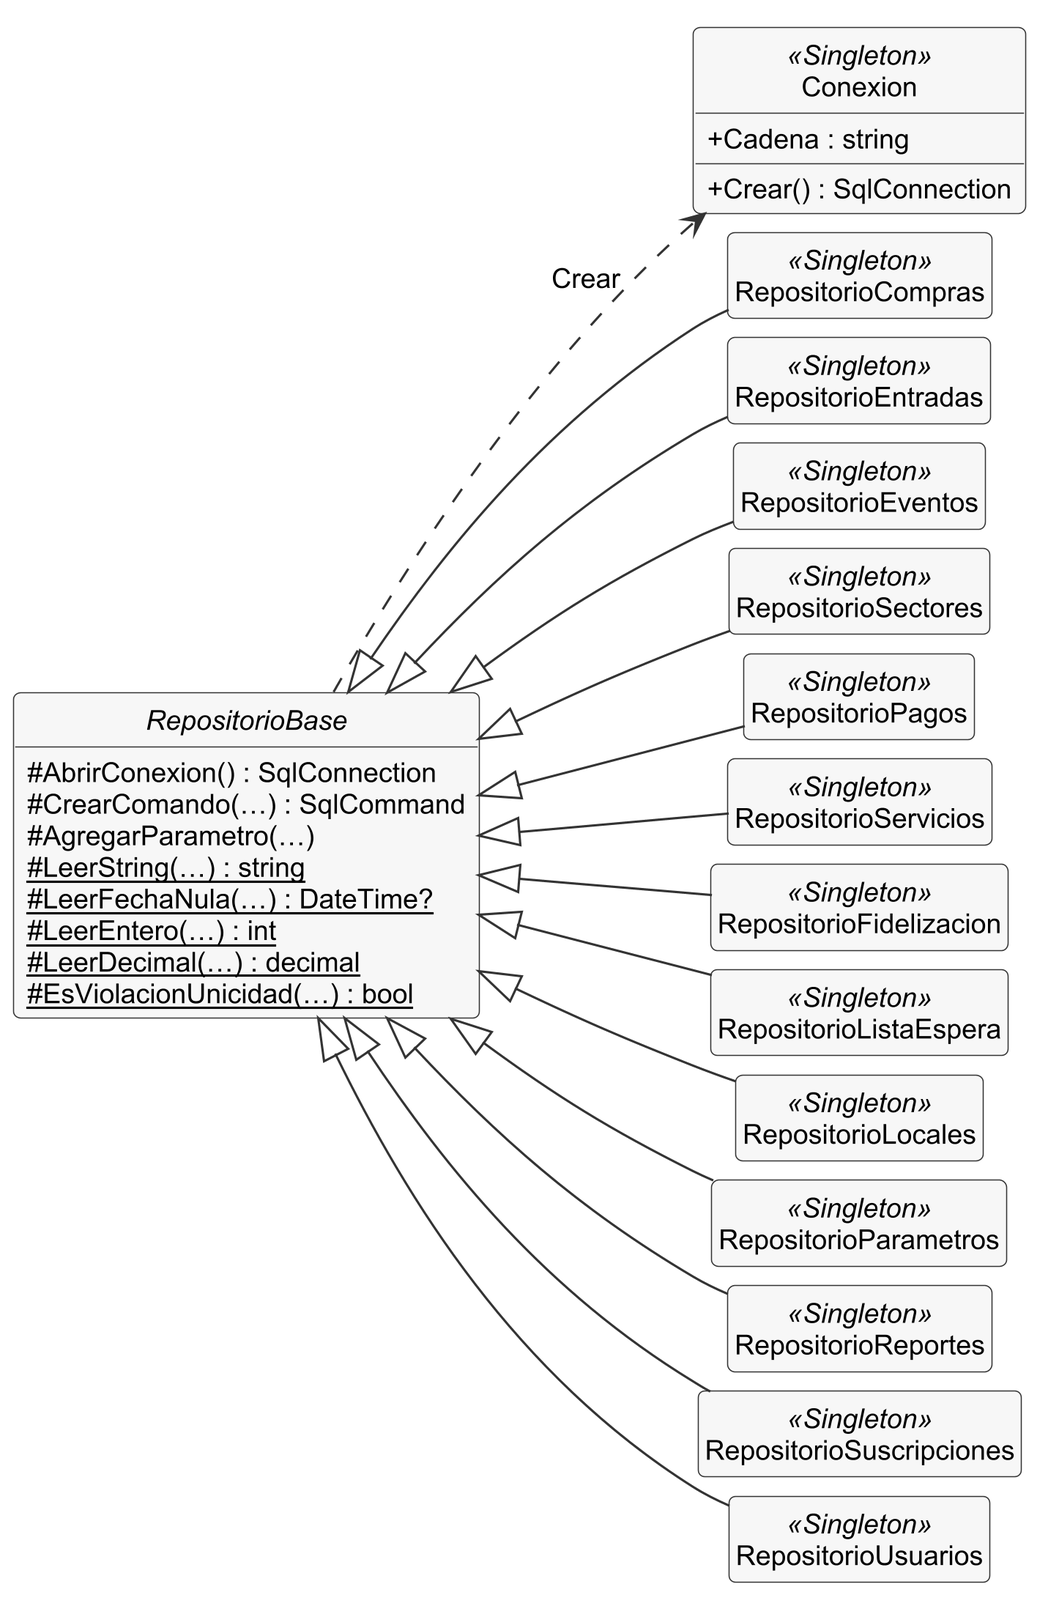
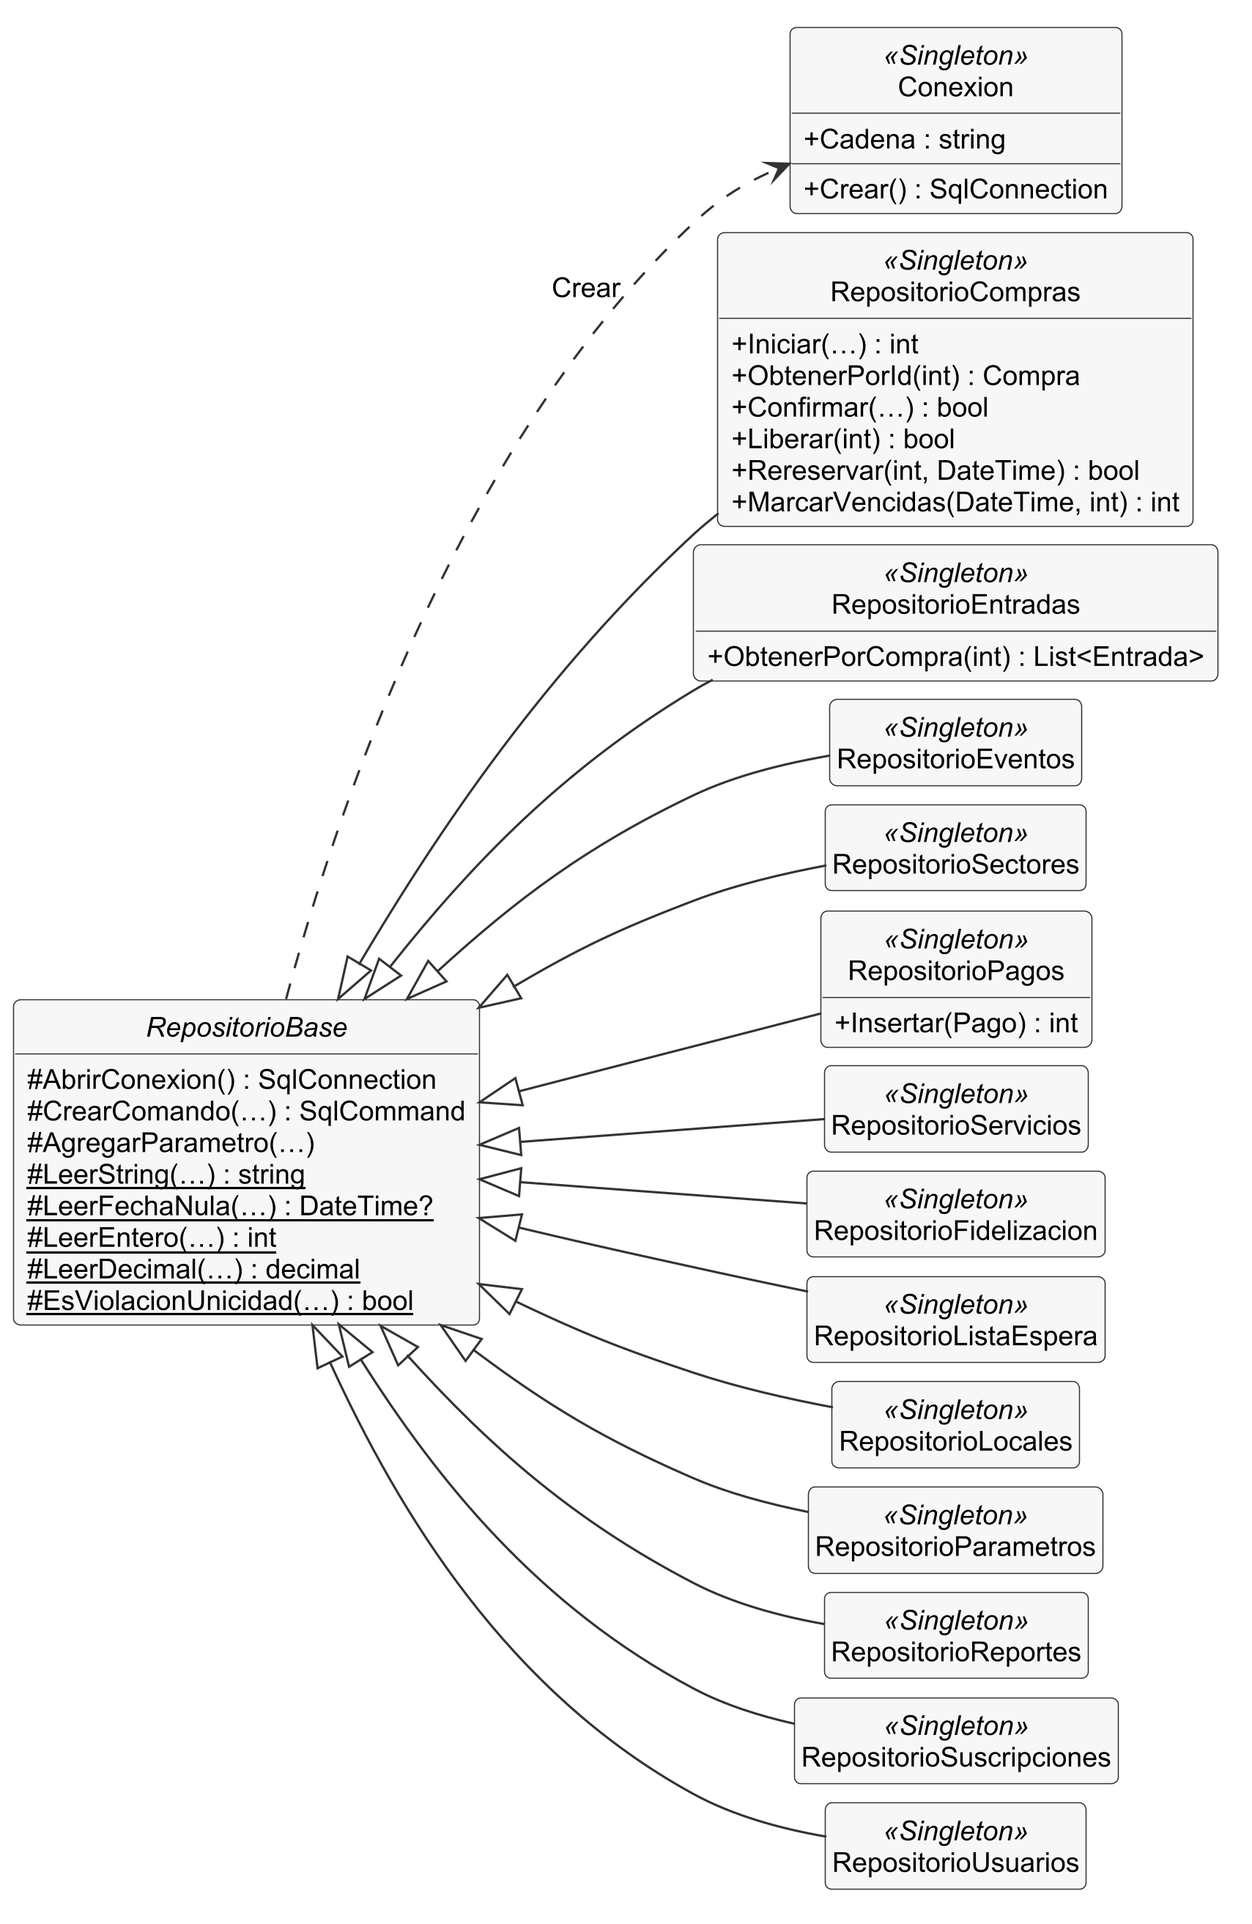
docs: matriz de coherencia corrida (8 de 10), metodos de secuencia en clases y guion de interfaz
- La matriz aparecio fuera del repositorio (adjunto de WhatsApp del 11/11); texto original y
  resultado en docs/MATRIZ-COHERENCIA.md. La 10 espera la devolucion del Parcial 1.
- Vistas 4 y 7 de clases con los metodos que llaman las secuencias; diagramas regenerados.
- Texto de clases con las equivalencias de nombres del dominio; dominio actualizado explica las
  tres multiplicidades de la entrada que la base no hace estrictas (decision M-1 para JC).
- Lista: trazabilidad del requerimiento core hasta el codigo; capturas del guion (pp. 47 a 49)
  esperando figura nueva.

diff --git a/docs/MATRIZ-COHERENCIA.md b/docs/MATRIZ-COHERENCIA.md
@@ -1,0 +1,155 @@
+# Matriz de coherencia: las diez comprobaciones, corridas sobre el documento
+
+Claude Code, 16/11/2026, a pedido de JC. Es el tercer instrumento: los otros dos (la guía oficial
+y los 16 errores frecuentes) están en `docs/CHEQUEO-INSTRUMENTOS-DOCENTE.md`.
+
+Se corrió sobre el documento **tal como queda después de pegar `docs/LISTA-PARA-MAXIMO.md`**: los
+diagramas de `docs/diagramas/fuentes/`, el esquema `BaseDatos/01-esquema.sql` y el código del
+commit `ea9212a`. Todo por lectura, con scripts que solo leen; no se corrió la batería ni se tocó
+ninguna base.
+
+## De dónde salió la matriz
+
+No estaba en el repositorio. Apareció en el disco, fuera de él, buscando por contenido:
+
+- **Archivo:** `Prompt_Documentacion_Trabajo_de_Diploma.md` (y su copia en PDF), en los adjuntos de
+  WhatsApp Desktop, carpeta de transferencias de la semana 46 (llegó el 11/11/2026).
+- **Qué es:** un prompt para armar la documentación del Trabajo de Diploma, con la estructura de
+  la guía oficial (profesor Audoglio). Su sección 6 es la matriz. **No dice quién lo escribió.**
+  JC confirma si es la que usa el profesor.
+- No se encontró otra: se revisaron Descargas, Documentos, OneDrive, el escritorio, las carpetas
+  de `D:\` y los adjuntos de WhatsApp (PDF, Word, PowerPoint, Excel, texto y Markdown).
+
+**Texto original de la sección 6**, sin cambios:
+
+> ## 6. Matriz de coherencia (completala al cerrar cada iteración)
+>
+> | Verificación | Cómo se comprueba |
+> |---|---|
+> | Cada RF core tiene CU, robustez, secuencia y código | Tabla de trazabilidad RF → CU → diagramas → archivos |
+> | Los estados de la entidad son idénticos en el diagrama de transición, en la clase, en el enum o CHECK de la base y en el código | Comparar las 4 listas |
+> | Cada clase del dominio actualizado existe en el diagrama de clases (o se explica por qué no) | Lista lado a lado |
+> | Cada relación tiene la misma multiplicidad en dominio, clases y DER | Tabla de relaciones |
+> | Ninguna clase tiene un atributo de clave foránea y a la vez una línea hacia la misma clase | Revisar clase por clase |
+> | Toda relación 1:1 del diagrama tiene UNIQUE en la base | Revisar el script |
+> | Toda composición del diagrama tiene borrado en cascada o baja lógica coherente en la base | Revisar las FK |
+> | Los métodos de la secuencia existen en las clases del diagrama de clases y en el código | Buscar cada nombre |
+> | Los nombres (clases, atributos, tablas) son consistentes en todo el documento | Glosario |
+> | Lo que marcó la devolución del Parcial 1 está corregido y anotado en la hoja de seguimiento | Lista de observaciones vs. correcciones |
+
+## Resultado
+
+| # | Comprobación | Antes | Ahora | Qué se hizo |
+|---|---|---|---|---|
+| 1 | RF core → CU, robustez, secuencia, código | **No** | Sí | La matriz principal llegaba hasta los casos de prueba. Tabla nueva en la lista, p. 107 |
+| 2 | Estados idénticos en las 4 listas | Sí | Sí | — |
+| 3 | Clases del dominio en el diagrama de clases | **Con huecos** | Sí | Párrafo nuevo en el texto del diagrama de clases |
+| 4 | Misma multiplicidad en dominio, clases y DER | **No, en 3 relaciones** | Explicado | Párrafo nuevo en el dominio actualizado. **Decisión de JC** abajo |
+| 5 | Atributo de FK y línea a la vez | Sí | Sí | — |
+| 6 | Toda 1:1 con UNIQUE en la base | **No, en 1 relación** | Explicado | La misma decisión de JC |
+| 7 | Composiciones con cascada o baja lógica | Sí (no hay composiciones) | Sí | — |
+| 8 | Métodos de la secuencia en clases y código | **No, 8 llamadas** | Sí | Métodos agregados a las vistas 4 y 7; diagramas regenerados |
+| 9 | Nombres consistentes (glosario) | **Con huecos** | Sí, salvo glosario | El mismo párrafo de la 3. El documento no tiene glosario |
+| 10 | Devolución del Parcial 1 en la hoja de seguimiento | **Bloqueada** | Bloqueada | No está la devolución. **La tiene que pasar JC** |
+
+### 1. Requerimiento core hasta el código
+
+El core es RF-05, armado de paquetes (p. 46). Tiene CU-01, la robustez «Comprar paquete», la
+secuencia en tres vistas, dos actividades, la transición de estados de la entrada y su código.
+Lo que faltaba era la tabla que lo muestra: la matriz de la p. 107 va de RF a CU y a casos de
+prueba, sin diagramas ni archivos. **Se agregó** la tabla «Trazabilidad del requerimiento core»
+en la lista, después de la matriz principal. Los doce archivos que nombra existen.
+
+### 2. Estados de la entrada
+
+Las cuatro listas dicen lo mismo: Pendiente, Confirmada, Reembolsada y Vencida.
+
+| Lugar | Dónde |
+|---|---|
+| Diagrama de transición | `estados-entrada.puml` (Confirmada tiene dos subestados, sin ingreso e ingresada, que son `FechaIngreso` y no un valor de `Estado`) |
+| Clase | enum `EstadoEntrada` en la vista 3 de clases |
+| Base | `CK_Entradas_Estado` (`01-esquema.sql` y `05-check-estado-entradas.sql`) |
+| Código | `Entidade/EstadoEntrada.cs` |
+
+### 3 y 9. Nombres del dominio frente a las clases
+
+| Dominio actualizado | Diagrama de clases | ¿Explicado antes? |
+|---|---|---|
+| Administrador | `Propietario` | Solo en el texto de casos de uso |
+| Inscripción | `ListaEspera` | No |
+| Servicio contratado | `CompraServicio` | Sí, en el dominio actualizado |
+| Paquete | `Paquete` (no se guarda en la base) | En parte |
+| Suscripción | `Suscripcion` | Es la tilde: no hace falta |
+
+**Se agregó** al texto del diagrama de clases (`docs/PARA-MAXIMO-DIAGRAMAS.md`, sección 2, y de
+ahí a la lista) un párrafo con las tres equivalencias y la del Paquete. Con eso pasan la 3 y la 9.
+
+**La 9 pide un glosario, y el documento no tiene.** Ese párrafo cumple la función para los nombres
+que difieren, pero no es un glosario. Si JC quiere uno, es una sección nueva: no la agregué.
+
+### 4 y 6. Multiplicidades de la entrada
+
+Coinciden en todas las relaciones salvo tres, las tres de la entrada:
+
+| Relación | Dominio | Clases | DER | Por qué |
+|---|---|---|---|---|
+| Entrada — Compra | 1 | 0..1 | 0..1 | `Entradas.ID_Compra` admite NULL: se agregó con `ALTER TABLE … NULL` a una tabla de entradas anterior a las compras |
+| Entrada — Sector | 1 | 0..1 | 0..1 | Lo mismo con `ID_Sector` |
+| Entrada — Seguro | 0..1 | 0..* | 0..* | `Seguros.ID_Entrada` no tiene UNIQUE. El código emite un seguro por entrada, una sola vez, y CP-122 prueba que no se agrega después |
+
+El dominio dice la regla del negocio; la base es menos estricta. **Se agregó** al texto del
+dominio actualizado un párrafo que lo explica. Con eso el documento no se contradice, pero la
+comprobación 4 pide literalmente la misma multiplicidad, y la 6 pide UNIQUE para la relación
+0..1 del dominio.
+
+**Decisión de JC (M-1):**
+- **(a) Dejarlo explicado** (lo que está hoy en la lista). No cambia código ni base.
+- **(b) Agregar `UNIQUE (ID_Entrada)` en `Seguros`.** Lo hace Codex en un script `07` (Máximo
+  tendría que correr un script más) y en `01-esquema.sql`, y el DER y las clases pasan a 0..1.
+  Cierra la 6 y una de las tres de la 4. Las otras dos (compra y sector) quedan explicadas
+  igual: volver obligatorias esas columnas exige revisar los datos que ya existen.
+
+**Recomendación: (a).** El código ya garantiza un solo seguro por entrada, y a días de congelar
+no conviene sumarle a Máximo otro script de base. La (b) tiene sentido si el profesor corrige la
+6 al pie de la letra.
+
+### 5. Clave foránea como atributo y como línea
+
+Revisado con un script sobre las tres vistas de entidades y los dos dominios: ninguna clase lista
+como atributo el identificador ni la colección que ya representa una asociación. El
+entidad-relación muestra las columnas FK porque es su notación.
+
+### 7. Composiciones
+
+No hay composiciones en ningún diagrama (`docs/PARA-MAXIMO-DIAGRAMAS.md`, regla 3: el código no
+tiene ciclo de vida dependiente entre entidades). La comprobación no tiene nada que revisar.
+
+### 8. Métodos de la secuencia
+
+Las tres vistas de la secuencia «Comprar paquete» llaman a 19 operaciones distintas. Todas existen en el
+código, pero 8 no aparecían en ningún diagrama de clases:
+
+| Llamada | Faltaba en | Arreglo |
+|---|---|---|
+| `GestorPaquetes.VerificarPreventa` | vista 4 (es `internal`) | `~ VerificarPreventa(int, int)` |
+| `RepositorioCompras.Iniciar`, `ObtenerPorId`, `Confirmar`, `Liberar`, `Rereservar`, `MarcarVencidas` | vista 7 (los repositorios estaban sin métodos) | Agregados |
+| `RepositorioEntradas.ObtenerPorCompra` | vista 7 | Agregado |
+| `RepositorioPagos.Insertar` | vista 7 | Agregado |
+
+Diagramas regenerados: `clases-4-negocio-compra` (16,0 × 18,3 cm, 8,5 pt) y `clases-7-datos`
+(15,0 × 23,0 cm, 9,3 pt), los dos dentro del ancho de página. Al volver a correr la comprobación,
+no falta ninguna.
+
+### 10. Devolución del Parcial 1
+
+La «hoja de seguimiento» es el historial de revisión de la p. 6 (punto 13 de la guía). Lo que no
+está es **la devolución del Parcial 1**: no aparece en el repositorio ni en el disco. Sin ella no
+se puede comparar observación por observación. **JC la pasa (archivo, foto o texto) y se corre.**
+
+## Encontrado de paso, fuera de la matriz
+
+**Las tres capturas del guion de interfaz (pp. 47 a 49) son de antes del rediseño.** La de la
+p. 47 todavía dice «Show Password». Quedaron en la lista como «esperando figura nueva», con la
+pantalla que va en cada una, y se corrigió el texto del Menú Inicial (Enter y los dos enlaces).
+Para Codex: sumarlas a las capturas del congelamiento (`frmInicio`, `frmCrearUsuario`,
+`frmMenuCliente`).

diff --git a/docs/LISTA-PARA-MAXIMO.md b/docs/LISTA-PARA-MAXIMO.md
@@ -842,6 +842,21 @@ entradas del pedido debajo) y para Reportes (filtros arriba en dos filas, tabla 
 lectura y acciones al pie). **Cuando Codex las publique, JC confirma que las pantallas quedaron
 así**; hoy son la propuesta, no el código.
 
+## Páginas 47 a 49 — Guion de interfaz: las tres capturas
+
+**⏸ ESPERANDO FIGURA NUEVA: no toques las tres imágenes todavía.** Muestran la interfaz de antes
+del rediseño (la de la p. 47 dice «Show Password»). Van a reemplazarse por capturas de la interfaz
+congelada: p. 47, inicio de sesión (`frmInicio`); p. 48, crear cuenta (`frmCrearUsuario`); p. 49,
+menú del cliente (`frmMenuCliente`). Cuando estén, esta entrada dice el archivo de cada una.
+
+**P. 47, mismo lugar, ya:** en la lista del Menú Inicial, **dice** «Botones para iniciar sesión,
+cambiar la contraseña y crear una cuenta nueva.» **Poner:** «El botón para iniciar sesión, que
+también responde a la tecla Enter, y los enlaces para cambiar la contraseña y crear una cuenta
+nueva.»
+
+*Razón:* pasada de coherencia del 16/11 sobre el rediseño. `frmInicio` tiene `AcceptButton` y los
+dos accesos como enlaces («Cambiar contraseña» y «Crear Cuenta»).
+
 ## Página 48
 
 **E-01 · p. 48 · R (T-5).**
@@ -1666,11 +1681,18 @@ Texto, debajo del título «Diagrama de clases»:
 > la compra y del pago son enumeraciones con los mismos valores que las restricciones `CHECK` de la
 > base de datos.
 >
-> En la capa de negocio, las vistas 4 y 5 muestran las operaciones públicas de cada gestor, y la
-> vista 6, la verificación de identidad que agregó la revisión de seguridad: antes de operar, cada
+> Tres conceptos del modelo de dominio llevan otro nombre en el código, y así aparecen en las
+> vistas: el Administrador es la clase `Propietario`, que es el nombre de su perfil en la base de
+> datos (RN-05); la Inscripción en la lista de espera es la clase `ListaEspera`, y el Servicio
+> contratado es la clase `CompraServicio`. El Paquete existe como clase pero no se guarda en la
+> base: es el armado en curso, y al confirmarlo se convierte en una Compra.
+>
+> En la capa de negocio, las vistas 4 y 5 muestran las operaciones públicas de cada gestor, más
+> las internas que aparecen en el diagrama de secuencia, y la vista 6, la verificación de identidad que agregó la revisión de seguridad: antes de operar, cada
 > gestor consulta a `GestorSesion` si quien llama es el titular de los datos (RN-41) o el
 > Administrador (RN-34, RN-42). La vista 7 muestra la capa de datos: trece repositorios que
-> heredan de `RepositorioBase`, únicos responsables del acceso a SQL Server.
+> heredan de `RepositorioBase`, únicos responsables del acceso a SQL Server; de cada uno se
+> muestran los métodos que aparecen en los diagramas de secuencia.
 
 **Sección nueva «Patrones de diseño»**, a continuación de las vistas de clases. Tres figuras:
 
@@ -1772,6 +1794,14 @@ Texto:
 > entrada y del pago son enumeraciones con los mismos valores que la base de datos. La relación de
 > muchos a muchos entre compra y servicio complementario lleva una clase de asociación, Servicio
 > contratado, con la cantidad y el precio unitario congelado al comprar (RN-16).
+>
+> El dominio expresa la regla del negocio, y en tres asociaciones de la entrada la implementación
+> es menos estricta. Toda entrada nace de una compra y de un sector, pero en la base de datos las
+> columnas de la compra y del sector admiten nulos, porque se agregaron a una tabla de entradas
+> anterior a ellas; por eso el diagrama de clases y el entidad-relación las muestran con
+> multiplicidad 0..1. Y una entrada tiene a lo sumo un seguro: el sistema lo emite una sola vez, al
+> confirmar la compra, y no permite agregarlo después (RN-28), pero la base no lo impide con una
+> restricción de unicidad, así que el entidad-relación muestra 0..*.
 
 **Diagrama de actividad:** el título «Diagrama de Actividad (flujo del Cliente)» pasa a
 «Diagrama de actividad (proceso de venta)». Reemplazar la figura (que sigue en la p. 89) por
@@ -2111,6 +2141,19 @@ El párrafo «La indicación "ind." en RF-10…» queda igual. **Agregar** debaj
 > en RF-12, que reúne las operaciones del Administrador. CP-94 figura en varias filas porque
 > verifica las dos reglas en las operaciones de cada una; CP-123, en RF-07 y RF-12, porque
 > verifica RN-42 en el control de ingreso.
+
+**Agregar a continuación** el subtítulo «Trazabilidad del requerimiento core» y:
+
+> La matriz principal llega hasta los casos de prueba. Para el requerimiento core, la
+> trazabilidad sigue hasta los diagramas y el código:
+
+| Requerimiento | Caso de uso | Diagramas | Código |
+|---|---|---|---|
+| RF-05, Armado de paquetes personalizados | CU-01 Comprar paquete | Robustez «Comprar paquete»; secuencia «Comprar paquete» (reserva, pago y emisión); actividad del armado y del pago; transición de estados de la entrada; clases, vistas 2, 3, 4 y 7 | `Visual/Cliente/FrmCompraCliente.cs`, `frmPago.cs` y `frmConfirmacion.cs`; `Repo/GestorPaquetes.cs`, `GestorCompras.cs` y `GestorFidelizacion.cs`; `Datos/RepositorioCompras.cs`, `RepositorioSectores.cs`, `RepositorioEntradas.cs` y `RepositorioPagos.cs`; `Entidade/Paquete.cs` y `Compra.cs` |
+
+*Razón:* matriz de coherencia, comprobación 1 («Cada RF core tiene CU, robustez, secuencia y
+código»; se comprueba con una tabla RF → CU → diagramas → archivos). La matriz principal no
+llegaba a diagramas ni a archivos. Los archivos existen en el commit `ea9212a`.
 
 **Tabla «Trazabilidad inversa de los objetivos específicos», fila OE-4. Reemplazar** la
 evidencia «Informe de pruebas de usabilidad: SUS 74,5 y 80 % de satisfacción» **por** «Informe de

diff --git a/docs/PARA-MAXIMO-DIAGRAMAS.md b/docs/PARA-MAXIMO-DIAGRAMAS.md
@@ -113,10 +113,10 @@ presenta en siete vistas, más tres de patrones (ficha 3).
 | 1. Dominio: cuentas y catálogo | `clases-1-dominio-catalogo` | **15,9 cm** (23,0 de alto, página entera) | 8,6 pt |
 | 2. Dominio: compra y pago | `clases-2-dominio-compra` | **16,0 cm** (15,9) | 9,8 pt |
 | 3. Dominio: entrada y seguro | `clases-3-dominio-entrada` | **16,0 cm** (13,2) | 11,8 pt |
-| 4. Negocio: gestores de la compra | `clases-4-negocio-compra` | **16,0 cm** (17,6) | 8,5 pt |
+| 4. Negocio: gestores de la compra | `clases-4-negocio-compra` | **16,0 cm** (18,3) | 8,5 pt |
 | 5. Negocio: administración y cuenta | `clases-5-negocio-administracion` | **16,0 cm** (19,6) | 9,2 pt |
 | 6. Negocio: verificación de identidad | `clases-6-autorizacion` | **16,0 cm** (11,9) | 9,9 pt |
-| 7. Datos: repositorios | `clases-7-datos` | **15,1 cm** (23,0, página entera) | 11,1 pt |
+| 7. Datos: repositorios | `clases-7-datos` | **15,0 cm** (23,0, página entera) | 9,3 pt |
 
 El fuente de cada una es `fuentes/<nombre>.puml` y la imagen, `<nombre>.png`.
 
@@ -141,11 +141,18 @@ conceptual» de la misma página no se toca en esta entrega.**
 > la compra y del pago son enumeraciones con los mismos valores que las restricciones `CHECK` de la
 > base de datos.
 >
-> En la capa de negocio, las vistas 4 y 5 muestran las operaciones públicas de cada gestor, y la
-> vista 6, la verificación de identidad que agregó la revisión de seguridad: antes de operar, cada
+> Tres conceptos del modelo de dominio llevan otro nombre en el código, y así aparecen en las
+> vistas: el Administrador es la clase `Propietario`, que es el nombre de su perfil en la base de
+> datos (RN-05); la Inscripción en la lista de espera es la clase `ListaEspera`, y el Servicio
+> contratado es la clase `CompraServicio`. El Paquete existe como clase pero no se guarda en la
+> base: es el armado en curso, y al confirmarlo se convierte en una Compra.
+>
+> En la capa de negocio, las vistas 4 y 5 muestran las operaciones públicas de cada gestor, más
+> las internas que aparecen en el diagrama de secuencia, y la vista 6, la verificación de identidad que agregó la revisión de seguridad: antes de operar, cada
 > gestor consulta a `GestorSesion` si quien llama es el titular de los datos (RN-41) o el
 > Administrador (RN-34, RN-42). La vista 7 muestra la capa de datos: trece repositorios que
-> heredan de `RepositorioBase`, únicos responsables del acceso a SQL Server.
+> heredan de `RepositorioBase`, únicos responsables del acceso a SQL Server; de cada uno se
+> muestran los métodos que aparecen en los diagramas de secuencia.
 
 **Justificación de relaciones, vistas 1 a 3 (entidades):**
 
@@ -515,6 +522,14 @@ una vista por página.
 > entrada y del pago son enumeraciones con los mismos valores que la base de datos. La relación de
 > muchos a muchos entre compra y servicio complementario lleva una clase de asociación, Servicio
 > contratado, con la cantidad y el precio unitario congelado al comprar (RN-16).
+>
+> El dominio expresa la regla del negocio, y en tres asociaciones de la entrada la implementación
+> es menos estricta. Toda entrada nace de una compra y de un sector, pero en la base de datos las
+> columnas de la compra y del sector admiten nulos, porque se agregaron a una tabla de entradas
+> anterior a ellas; por eso el diagrama de clases y el entidad-relación las muestran con
+> multiplicidad 0..1. Y una entrada tiene a lo sumo un seguro: el sistema lo emite una sola vez, al
+> confirmar la compra, y no permite agregarlo después (RN-28), pero la base no lo impide con una
+> restricción de unicidad, así que el entidad-relación muestra 0..*.
 
 **Justificación.** Las asociaciones son las mismas de la ficha 7, con la misma multiplicidad.
 Lo que se agrega:

diff --git a/docs/CHEQUEO-INSTRUMENTOS-DOCENTE.md b/docs/CHEQUEO-INSTRUMENTOS-DOCENTE.md
@@ -18,7 +18,7 @@ en la auditoría.
 |---|---|---|
 | **Estructura oficial** | La «Guía de resolución» de las consignas de la Entrega 1 a la 3 (`Documentacion/Entrega 1.pdf` a `Entrega 3.pdf`; las tres son iguales salvo el encabezado). Son 13 puntos, más tres formalidades: portada, resumen ejecutivo e índice | Corrida. **Da 16 ítems, no 15.** Si la estructura de 15 que tenés en mente es otro archivo, pasámelo |
 | **16 errores frecuentes** | Tu mensaje del 12/11 (la auditoría de diagramas) | Corrida |
-| **Matriz de coherencia de 10 comprobaciones** | **No está** en el repositorio, en los PDF de `Documentacion/` ni en ningún mensaje de esta sesión | **Decisión pendiente:** pasámela (archivo o texto) y la corro. Son unas 5 vueltas de herramienta. **No la reconstruí,** para no inventar los criterios del docente |
+| **Matriz de coherencia de 10 comprobaciones** | Sección 6 de `Prompt_Documentacion_Trabajo_de_Diploma.md`, adjunto de WhatsApp del 11/11 (fuera del repositorio) | **Corrida el 16/11:** `docs/MATRIZ-COHERENCIA.md`. Pasan 8 de 10 (dos con explicación en el texto); la 10 espera la devolución del Parcial 1 |
 
 Además se miraron los «Criterios de resolución» de la misma consigna, porque dicen cómo pondera.
 
